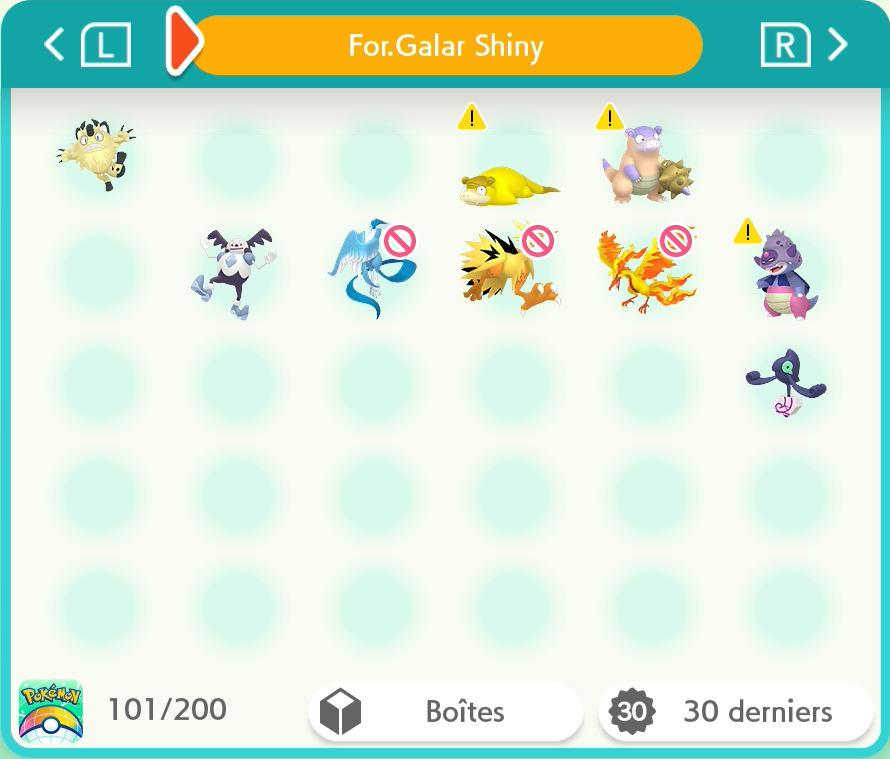
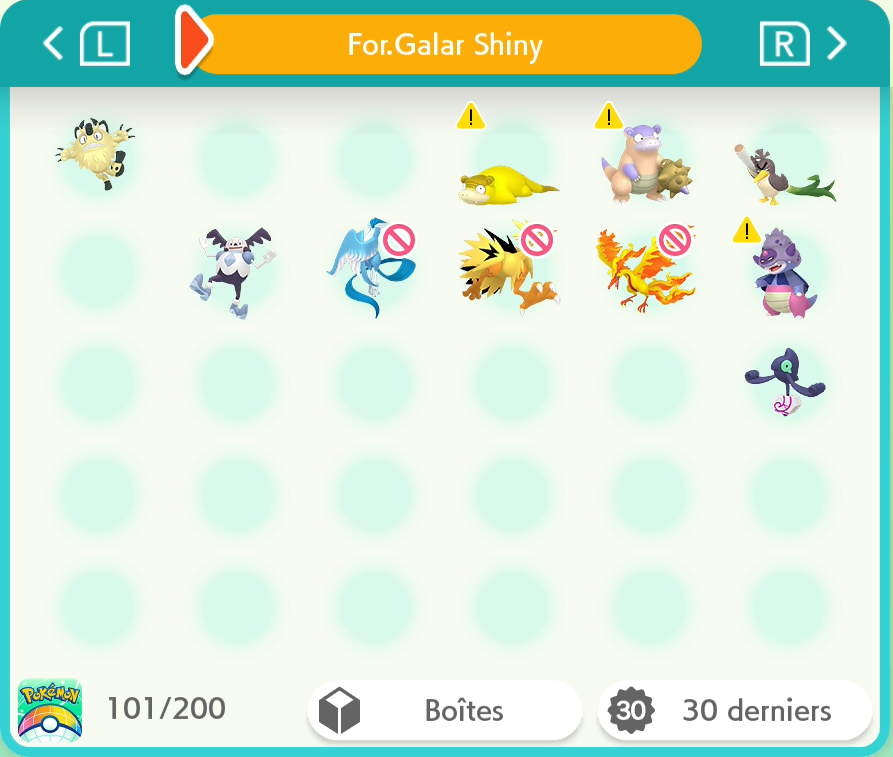
8G : Palarticho | 9G : Cryodo & Glaivodo | Forme de Galar : Canarticho

diff --git a/README.md b/README.md
@@ -2,8 +2,8 @@
 
 Pokémon-Elément-Sh -> <a href="https://www.pokemon-element-sh.fr/profil/karyno21" target="_blank">Karyno21</a>
 
-↓ Dernière Update le 29/05/2026 à 8h57 ↓
-### Dex National [254/999] +18
+↓ Dernière Update le 29/05/2026 à 22h55 ↓
+### Dex National [257/999] +21
 
 | Gen | Prog | Notes |
 |:--:|:--:|---|
@@ -14,15 +14,15 @@ Pokémon-Elément-Sh -> <a href="https://www.pokemon-element-sh.fr/profil/karyno
 |5G|28/154|+2 Funécire & Mélancolux|
 |6G|22/70|+1 Trousselin|
 |7G|16/84|J'ai deux Meltan Shiny mais impossible de le faire évolué en Melmétal... (pas compté)|
-|8G|30/90|+8 Distrib Zacian & Éthernatos, Fantyrm, Dispareptil, Lanssorien, M.Glaquette, Berserkatt & Tutétékri|
-|9G|43/108|+1 Terraiste|
+|8G|31/90|+9 Distrib Zacian & Éthernatos, Fantyrm, Dispareptil, Lanssorien, M.Glaquette, Berserkatt, Tutétékri & Palarticho|
+|9G|45/108|+3 Terraiste, Cryodo & Glaivodo|
 
-### Formes Régionales [48/58] +29
+### Formes Régionales [49/58] +30
 
 | Forme | Prog | Notes |
 |:--:|:--:|---|
 |Alola|18/18|+17 Complété (Familles de Rattata / Goupix / Racaillou / Sabelette / Tadmorv / Taupiqueur & Miaouss, Raichu & Noadkoko)|
-|Galar|9/19|+9 Famille de Ramoloss, Distrib des oiseaux légendaire de Galar, M.Mime, Miaouss & Tutafeh|
+|Galar|10/19|+10 Famille de Ramoloss, Distrib des oiseaux légendaire de Galar, M.Mime, Miaouss, Tutafeh & Canarticho|
 |Hisui|17/17|Complété|
 |Paldea|4/4|+3 Complété Axoloto, Tauros Aquatique & Flamboyant|
 
